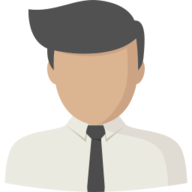
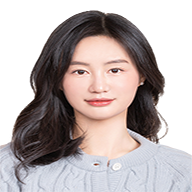
add: card-img <div> in projectCard.tsx

diff --git a/src/portfolio.tsx b/src/portfolio.tsx
@@ -3,7 +3,7 @@ import emoji from 'react-easy-emoji';
 export const greeting = {
 	username: 'YounGyeom',
 	title: 'Hello I\'m YounGyeom',
-	subTitle: emoji("subtitle ❤"),
+	subTitle: emoji(""),
 	role: "Frontend Developer",
 	resumeLink: "Your resume link... google drive or something else",
 	// IMPORTANT
@@ -38,10 +38,10 @@ export const skills = {
 	// You need to find className for font-awesome icon
 	// Go to https://fontawesome.com/ and search icon
 	lists: [
-		{fontAwesome: "fab fa-html5", text: "HTML5", proficiency: 80},
-		{fontAwesome: "fab fa-css3-alt", text: "CSS3", proficiency: 70},
+		{fontAwesome: "fab fa-html5", text: "HTML5", proficiency: 90},
+		{fontAwesome: "fab fa-css3-alt", text: "CSS3", proficiency: 90},
 		{fontAwesome: "fab fa-js", text: "JS", proficiency: 70},
-		{fontAwesome: "fab fa-sass", text: "Sass", proficiency: 30},
+		{fontAwesome: "fab fa-sass", text: "Sass", proficiency: 40},
 		{fontAwesome: "fab fa-react", text: "React", proficiency: 60},
 	],
 	view: true
@@ -80,7 +80,7 @@ export const experience = {
 }
 
 export const openSourceProjects = {
-	title: emoji("Open Source Projects 💻"),
+	title: emoji("Github Repositories"),
 	view: true
 }
 
@@ -90,11 +90,13 @@ export const projects = {
 	lists: [
 		{
 			title: "Project1",
+			preview: "https://user-images.githubusercontent.com/68359858/111421002-92bcee00-872f-11eb-8c8c-4ea62ed668bd.png",
 			desc: "very very very very very very very very very very very very very very long very long description for clamp testing",
 			url: "#"
 		},
 		{
 			title: "Project2",
+			preview: "https://user-images.githubusercontent.com/68359858/111421002-92bcee00-872f-11eb-8c8c-4ea62ed668bd.png",
 			desc: "description",
 			url: "#"
 		}
@@ -141,7 +143,7 @@ export const blogs = {
 }
 
 export const contactInfo = {
-	title: "Contact To Me! 📞",
+	title: "Contact 📞",
 	subTitle: "subtitle for contact",
 	introduce: emoji("your introduce❤"),
 	view: true

diff --git a/src/components/main.tsx b/src/components/main.tsx
@@ -4,13 +4,11 @@ import Hello from './Hello/Hello';
 import Skill from './Skill/Skill';
 import Top from './topButton/Top';
 import OpenSource from './OpenSource/OpenSource';
-import Achievement from './Achievement/Achievement';
 import Blog from './Blog/Blog';
 import Contact from './Contact/Contact';
 import Footer from './Footer/Footer';
-import Experience from './Experience/Experience';
 import Project from './Project/Project';
-import { greeting, skills, experience, openSourceProjects, projects, achievements, blogs, contactInfo } from '../portfolio';
+import { greeting, skills, openSourceProjects, projects, blogs, contactInfo } from '../portfolio';
 
 function Main() {
 	return (
@@ -18,10 +16,8 @@ function Main() {
 			<Header />
 			{greeting.view && <Hello />}
 			{skills.view && <Skill />}
-			{experience.view && <Experience />}
-			{openSourceProjects.view && <OpenSource />}
 			{projects.view && <Project />}
-			{achievements.view && <Achievement />}
+			{openSourceProjects.view && <OpenSource />}
 			{blogs.view && <Blog />}
 			{contactInfo.view && <Contact />}
 			<Footer />

diff --git a/src/components/Header/Header.tsx b/src/components/Header/Header.tsx
@@ -1,6 +1,6 @@
 import React from 'react';
 import './Header.css';
-import { greeting, skills, experience, openSourceProjects, projects, achievements, blogs, contactInfo } from '../../portfolio';
+import { greeting, skills, openSourceProjects, projects, blogs, contactInfo } from '../../portfolio';
 
 function Header() {
 	
@@ -36,11 +36,6 @@ function Header() {
 							Skills
 						</a>
 					</li>}
-					{experience.view && <li className="nav-list" onClick={onClickMenu}>
-						<a href="#experience">
-							Experience
-						</a>
-					</li>}
 					{openSourceProjects.view && <li className="nav-list" onClick={onClickMenu}>
 						<a href="#opensource">
 							Open Source
@@ -49,11 +44,6 @@ function Header() {
 					{projects.view && <li className="nav-list" onClick={onClickMenu}>
 						<a href="#project">
 							Projects
-						</a>
-					</li>}
-					{achievements.view && <li className="nav-list" onClick={onClickMenu}>
-						<a href="#achievement">
-							Achievements
 						</a>
 					</li>}
 					{blogs.view && <li className="nav-list" onClick={onClickMenu}>

diff --git a/public/index.html b/public/index.html
@@ -24,10 +24,11 @@
       work correctly both with client-side routing and a non-root public URL.
       Learn how to configure a non-root public URL by running `npm run build`.
     -->
-    <title>Your Title</title>
+    <title>YounGyeom's Portfolio</title>
     <link rel="stylesheet" href="https://cdn.jsdelivr.net/gh/FortAwesome/Font-Awesome@5.13.0/css/all.min.css" />
     <link rel="stylesheet" href="https://cdnjs.cloudflare.com/ajax/libs/meyer-reset/2.0/reset.css" integrity="sha512-IJEbgDEF7OeKJRa0MY2PApnyJHRIsgzCveek4ec8VWQ+7KG3ZSKVNYa5xP/Gh0hVP0Mwb+gBsk+GwR3JQGhQNg==" crossorigin="anonymous" />
     <link href="https://fonts.googleapis.com/css2?family=Roboto:wght@300;400;500;700&family=Source+Code+Pro&display=swap" rel="stylesheet"> 
+    <link href='//spoqa.github.io/spoqa-han-sans/css/SpoqaHanSansNeo.css' rel='stylesheet' type='text/css'>
   </head>
   <body>
     <noscript>You need to enable JavaScript to run this app.</noscript>

diff --git a/src/components/Hello/Hello.tsx b/src/components/Hello/Hello.tsx
@@ -1,10 +1,11 @@
-import React from 'react';
+import React, {useEffect} from 'react';
+import Typed from 'typed.js';
 import './Hello.css';
 import { greeting } from '../../portfolio';
 import Social from '../Social/Social';
 
 function Hello() {
-	const Fade: any = require("react-reveal/Fade");
+	const Fade: any = require("react-reveal/Fade");  
 	return (
 		<Fade bottom duration={800}>
 		<section className="section--hello">
@@ -13,11 +14,13 @@ function Hello() {
 				<div className="wrapper">
 					<div className="text-title">
 						{greeting.title}&nbsp;
-						<span className="hello-emoji">👋</span>
+						<span className="hello-emoji">🍋</span>
 					</div>
+
 					<div className="role">
-						<span>{greeting.role}</span>
+					<span>{greeting.role}</span>
 					</div>
+
 					<div className="text-subtitle">
 						<span>{greeting.subTitle}</span>
 					</div>

diff --git a/src/components/OpenSource/OpenSource.tsx b/src/components/OpenSource/OpenSource.tsx
@@ -28,7 +28,7 @@ function OpenSource() {
             .query({
                 query: gql`
                 {
-                user(login: "ikalli") {
+                user(login: "FromGoodEnoughYounGyeom") {
                     pinnedItems(first: 6, types: [REPOSITORY]) {
                         totalCount
                         edges {
@@ -74,7 +74,7 @@ function OpenSource() {
                     return <GithubCard repos={repo} key={i} />;
                 })}
             </div>
-            <a href="https://github.com/Ikalli" target="_blank" rel="noopener noreferrer">More Projects</a>
+            <a href="https://github.com/FromGoodEnoughYounGyeom" target="_blank" rel="noopener noreferrer">More Projects</a>
         </div>
     );
 }

diff --git a/src/components/Footer/Footer.tsx b/src/components/Footer/Footer.tsx
@@ -8,8 +8,8 @@ function Footer() {
             <div className="inner">
 
                 <div className="footer-content">
-                    <p>{emoji("Make By Username💙")}</p>
-                    <p style={{marginTop: "15px"}}>Theme By <a href="https://github.com/Ikalli/ReactFolio">ReactFolio</a></p>
+                    <p>{emoji("Make By YounGyeom💙")}</p>
+                    <p style={{marginTop: "15px"}}>Theme By <a href="https://github.com/FromGoodEnoughYounGyeom/fromgoodenoughyoungyeom.github.io">ReactFolio</a></p>
                 </div>
 
             </div>

diff --git a/src/components/ProjectCard/ProjectCard.tsx b/src/components/ProjectCard/ProjectCard.tsx
@@ -9,6 +9,9 @@ function ProjectCard({ project }: Props) {
             <div className="card-title">
                 <p>{project.title}</p>
             </div>
+            <div className="card-img">
+                <img src={project.preview}></img>
+            </div>
             <div className="card-desc">
                 <p>{project.desc}</p>
             </div>
@@ -19,6 +22,7 @@ function ProjectCard({ project }: Props) {
 interface Props {
     project: {
         title: string,
+        preview: string,
         desc: string,
         url: string
     }

diff --git a/src/components/Header/Header.css b/src/components/Header/Header.css
@@ -41,6 +41,7 @@ header .icon {
 	display: none;
 }
 header .nav-menu {
+	font-family: 'Spoqa Han Sans Neo', 'sans-serif';
 	height: 100%;
 	display: flex;
 	align-items: center;
@@ -55,6 +56,7 @@ header .nav-menu li a {
 	font-size: 20px;
 	text-decoration-line: none;
 	color: #ffffff;
+	cursor: pointer;
 }
 header .nav-menu li a:hover, header .icon:hover {
 	border-bottom: 3px solid #c1c2c3;
@@ -163,4 +165,5 @@ header .nav-menu li a:hover, header .icon:hover {
 	header .icon a {
 		padding: 17px 0;
 	}
+	
 }

diff --git a/src/components/Contact/Contact.tsx b/src/components/Contact/Contact.tsx
@@ -15,7 +15,7 @@ function Contact() {
             <div className="inner">
                 
                 <div className="profile-img">
-                    <img src={require("../../assets/your photo.png")} alt="profile" />
+                    <img src={require("../../assets/profile_youn.png")} alt="profile" />
                 </div>
                 <div className="wrapper-inner">
                     <div className="contact-subtitle">

diff --git a/src/index.css b/src/index.css
@@ -4,7 +4,7 @@ html {
 body {
   margin: 0;
   background-color: #121314;
-  font-family: 'Roboto', 'Oxygen', 'Ubuntu', 'Cantarell', 'Fira Sans', 'Droid Sans', 'Helvetica Neue',
+  font-family: 'Spoqa Han Sans Neo','Roboto', 'Oxygen', 'Ubuntu', 'Cantarell', 'Fira Sans', 'Droid Sans', 'Helvetica Neue',
     sans-serif;
   -webkit-font-smoothing: antialiased;
   -moz-osx-font-smoothing: grayscale;

diff --git a/src/components/ProjectCard/ProjectCard.css b/src/components/ProjectCard/ProjectCard.css
@@ -20,6 +20,15 @@
     font-size: 25px;
     font-weight: 500;
 }
+
+
+
+.project-card-main .card-img img{
+    margin-top: 30px;
+    max-width: 200px;
+    height: auto;
+}
+
 .project-card-main .card-desc {
     line-height: 1.4;
     margin-top: 30px;
